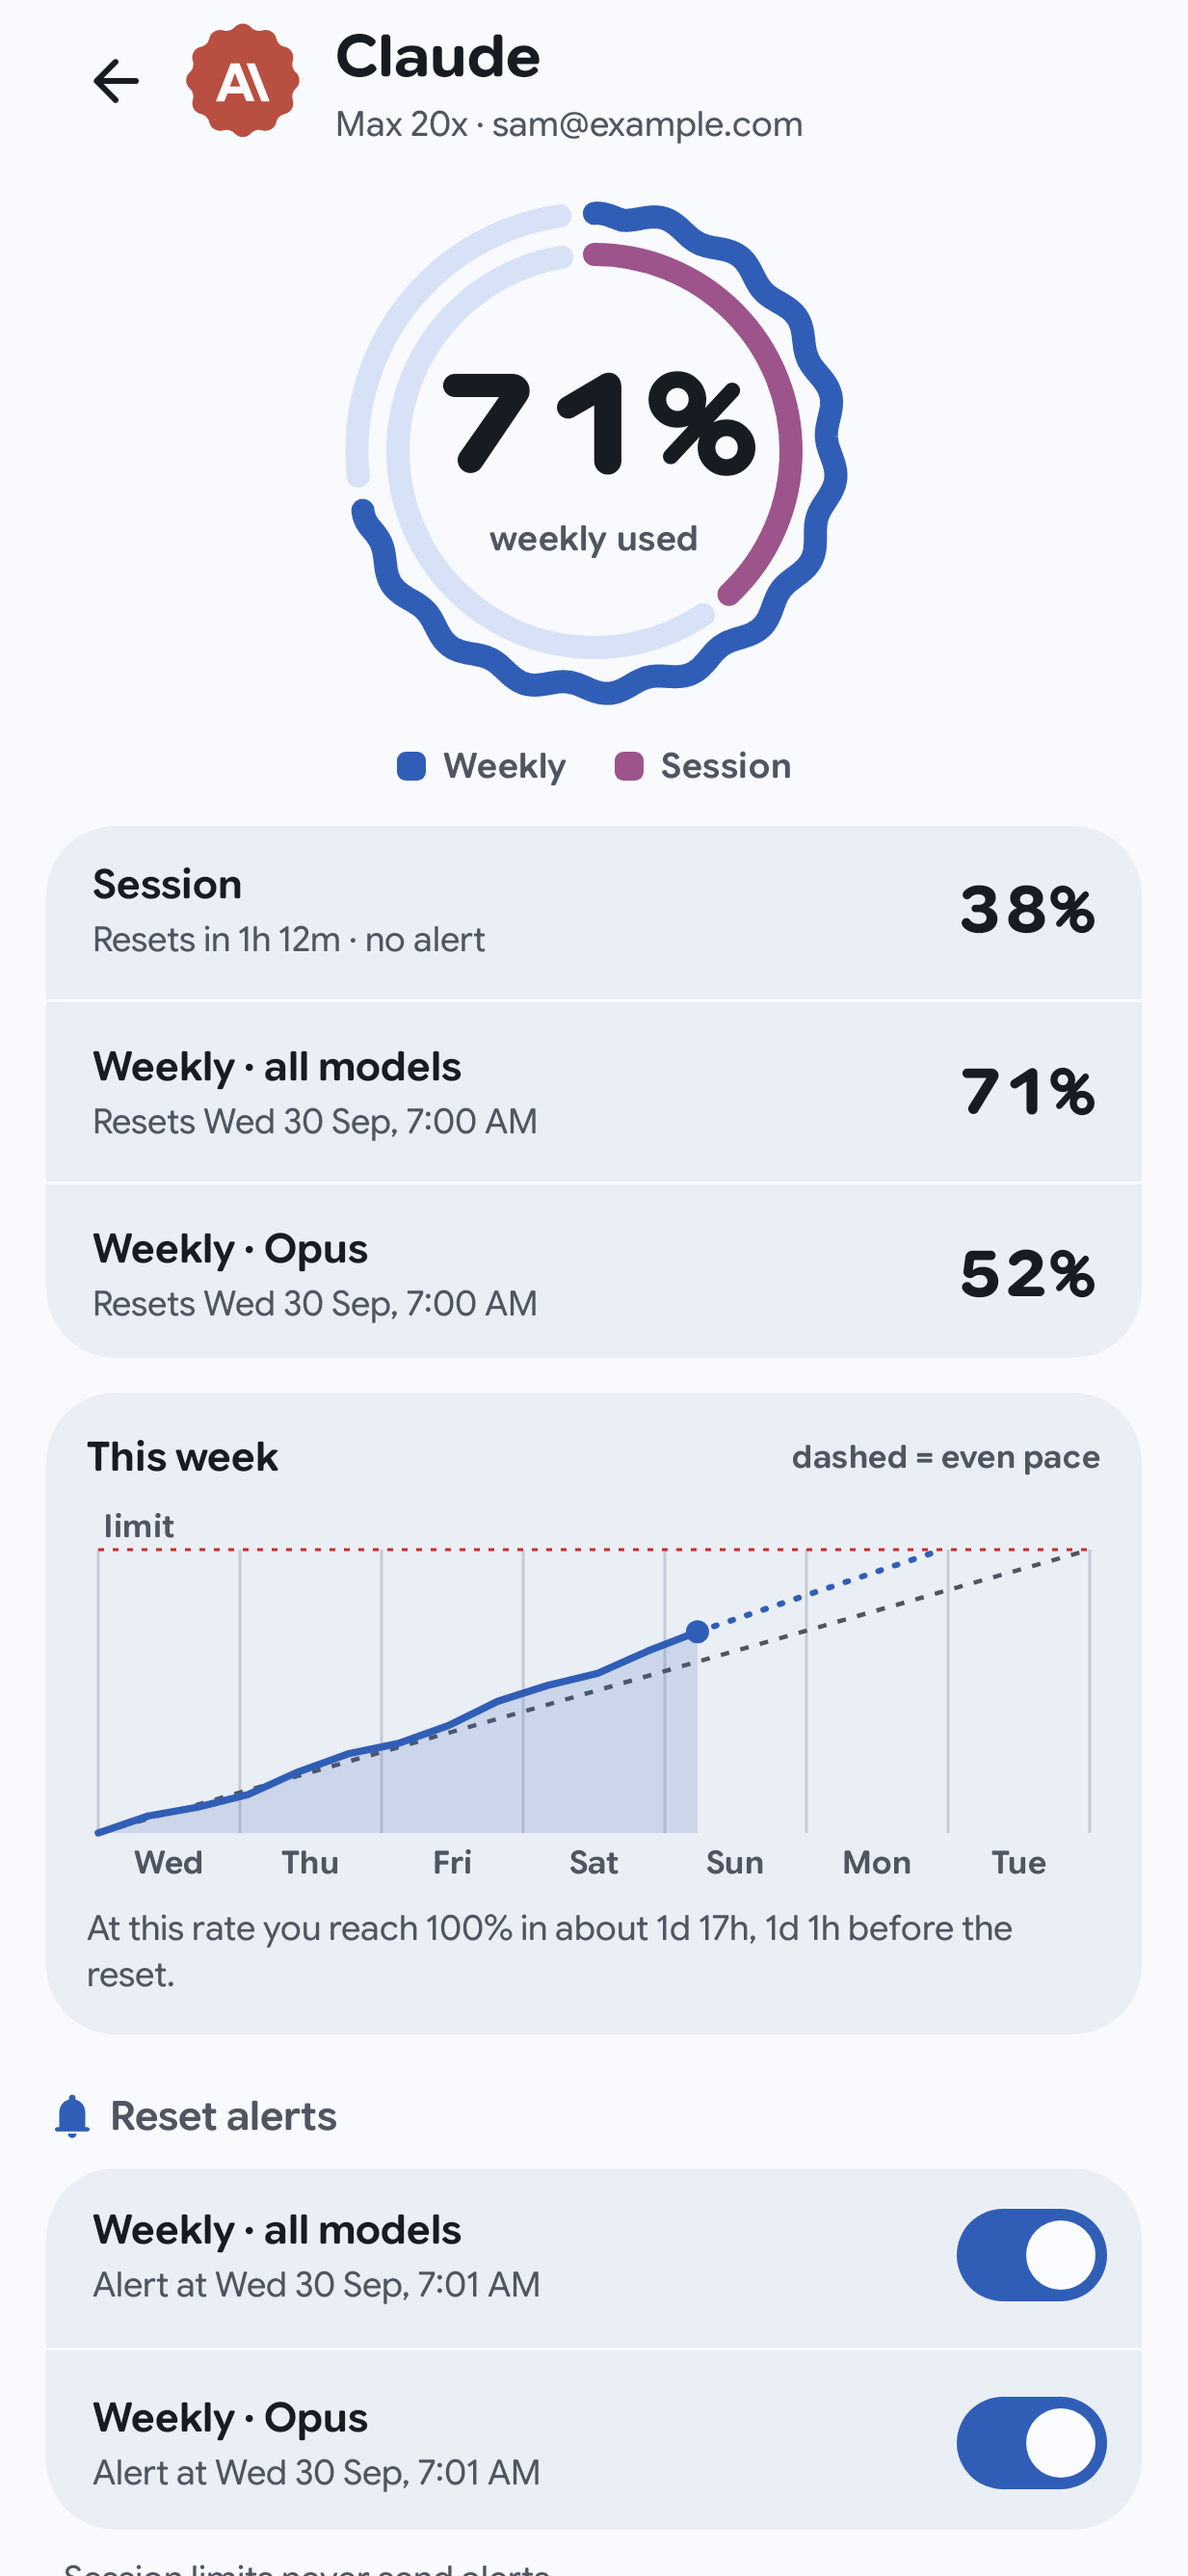
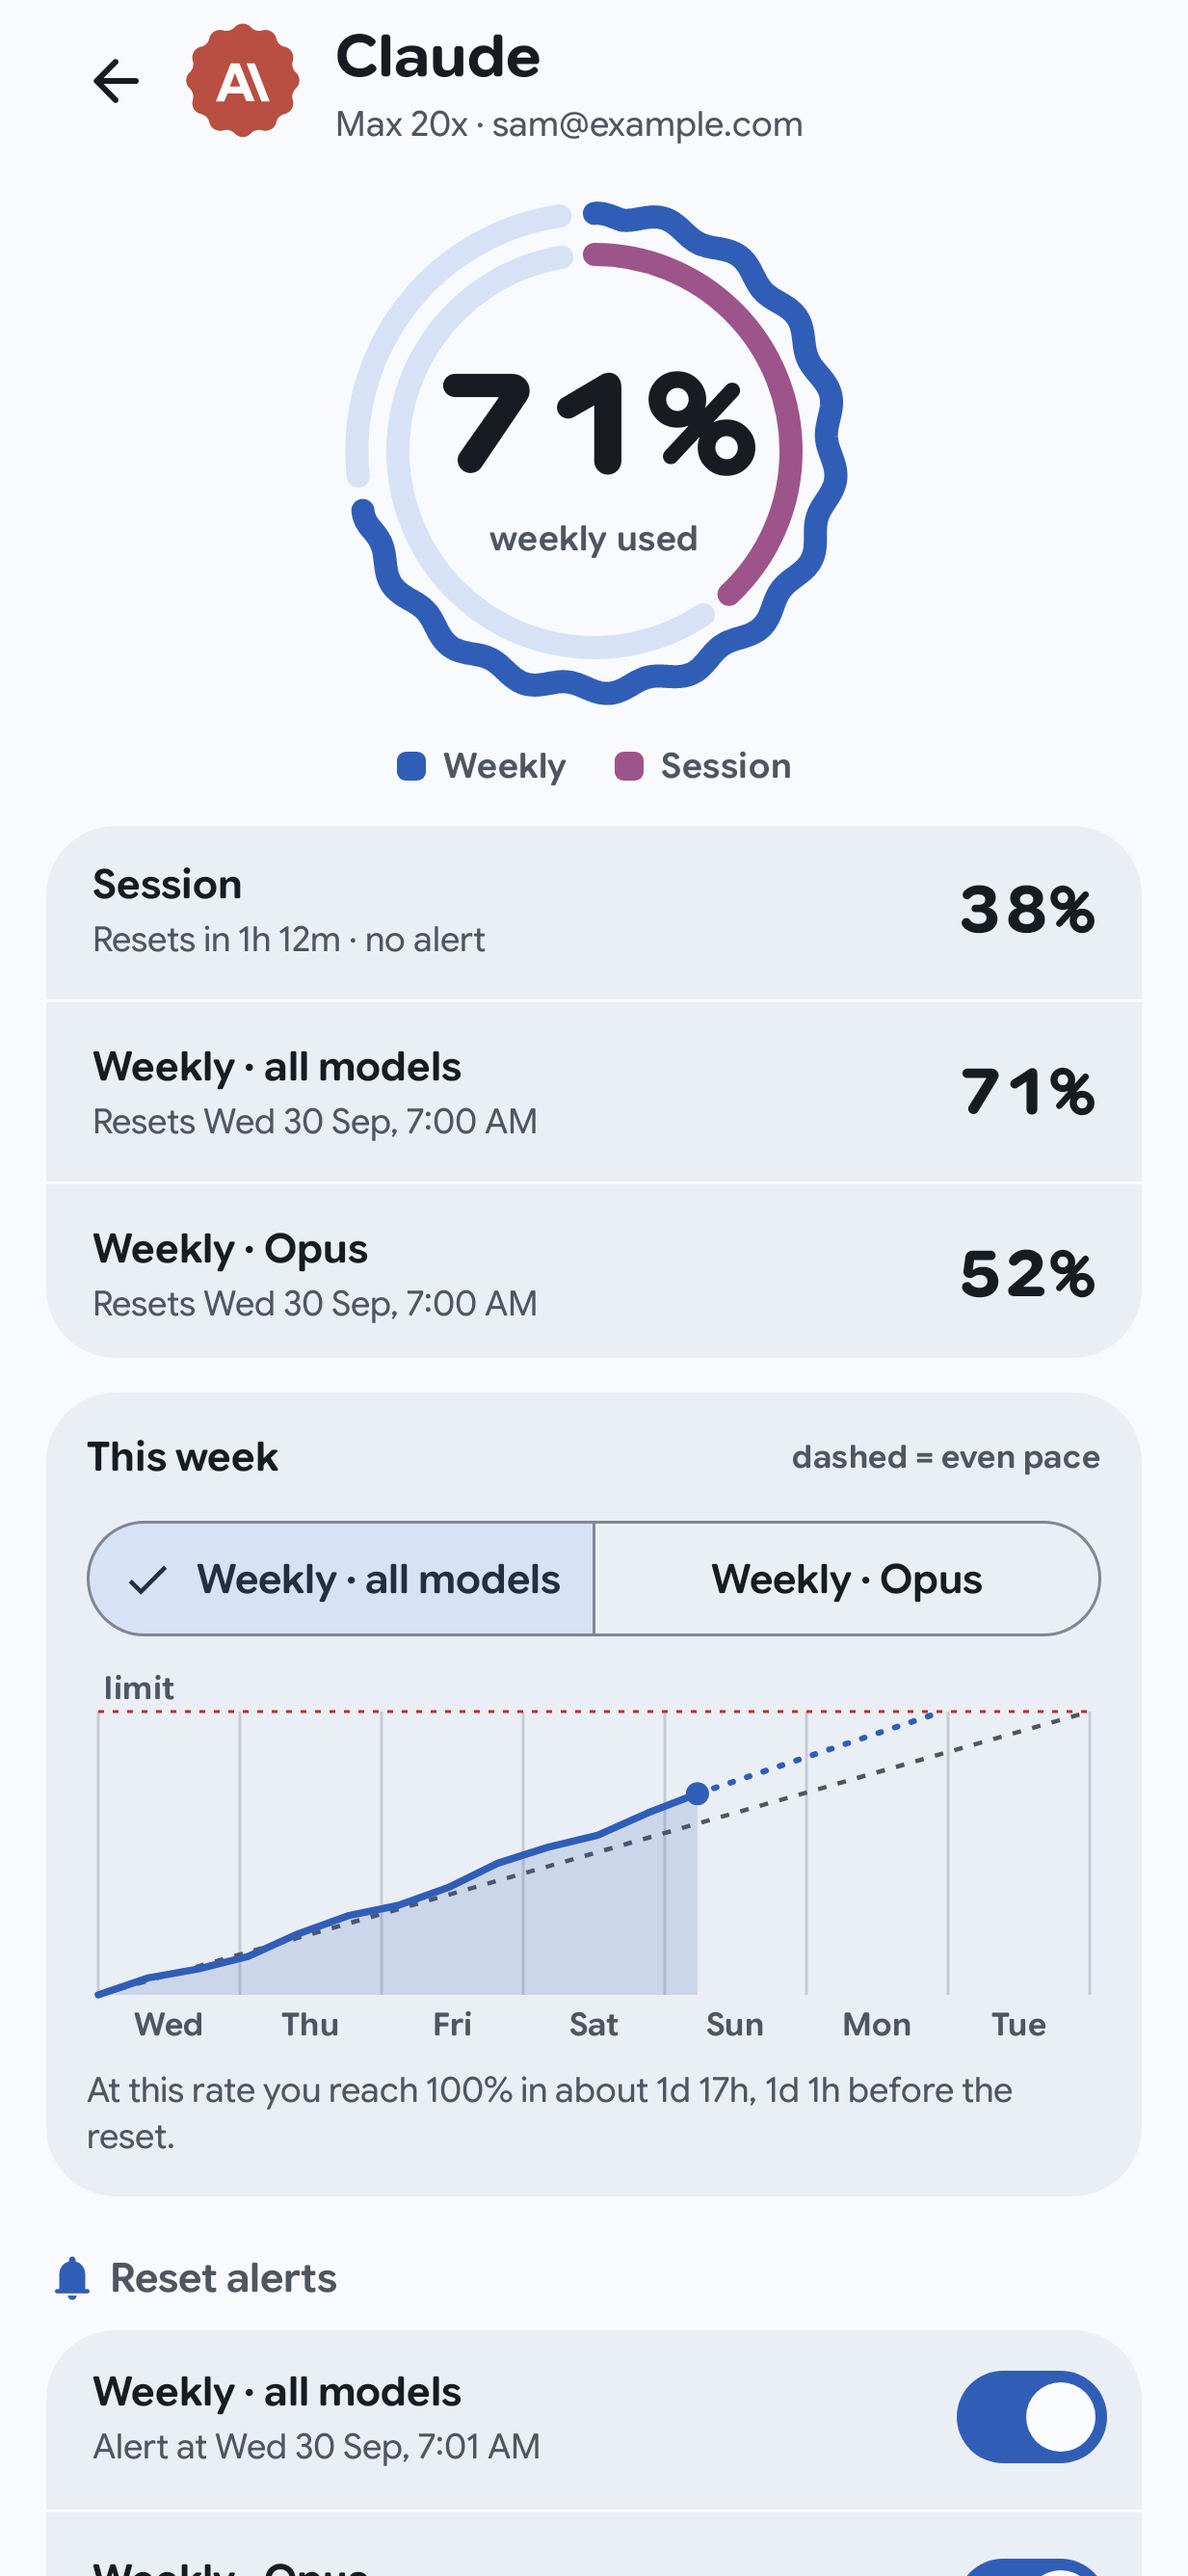
Let the pace chart switch between an account's long windows
Accounts with more than one weekly or monthly window, such as OpenCode Go
(weekly and monthly) or Claude (all models and per-model weekly limits),
get a segmented picker above the chart. It starts on the primary window
and remembers the pick while the same account stays selected.

diff --git a/app/src/main/kotlin/dev/sebastiano/headroom/ui/detail/DetailScreen.kt b/app/src/main/kotlin/dev/sebastiano/headroom/ui/detail/DetailScreen.kt
@@ -22,6 +22,9 @@ import androidx.compose.material3.HorizontalDivider
 import androidx.compose.material3.Icon
 import androidx.compose.material3.IconButton
 import androidx.compose.material3.MaterialTheme
+import androidx.compose.material3.SegmentedButton
+import androidx.compose.material3.SegmentedButtonDefaults
+import androidx.compose.material3.SingleChoiceSegmentedButtonRow
 import androidx.compose.material3.Surface
 import androidx.compose.material3.Switch
 import androidx.compose.material3.Text
@@ -36,6 +39,7 @@ import androidx.compose.ui.res.stringResource
 import androidx.compose.ui.semantics.contentDescription
 import androidx.compose.ui.semantics.heading
 import androidx.compose.ui.semantics.semantics
+import androidx.compose.ui.text.style.TextOverflow
 import androidx.compose.ui.unit.dp
 import dev.sebastiano.headroom.R
 import dev.sebastiano.headroom.designsystem.HeadroomIcons
@@ -67,6 +71,8 @@ const val DETAIL_TAG: String = "detail"
 
 fun alertSwitchTag(accountId: String, windowId: String): String = "alert-$accountId-$windowId"
 
+fun chartWindowTag(windowId: String): String = "chart-window-$windowId"
+
 /**
  * One account in depth: the hero ring (weekly outside, session inside), every window, the pace
  * chart drawn to scale, and the per-window reset alert switches.
@@ -79,6 +85,7 @@ fun DetailScreen(
     modifier: Modifier = Modifier,
     onBack: (() -> Unit)? = null,
     sharedElements: SharedElements? = null,
+    onChartWindowChange: (windowId: String) -> Unit = {},
 ) {
     val account = state.account
     val container =
@@ -117,7 +124,17 @@ fun DetailScreen(
                 )
             }
             WindowList(account, state.now, formatter, content)
-            state.chart?.let { ChartCard(it, state.now, formatter, content) }
+            state.chart?.let {
+                ChartCard(
+                    chart = it,
+                    now = state.now,
+                    formatter = formatter,
+                    windows = state.chartWindows,
+                    selectedWindowId = state.chartWindowId,
+                    onWindowChange = onChartWindowChange,
+                    modifier = content,
+                )
+            }
             AlertSection(account, formatter, onAlertChange, content)
         }
     }
@@ -293,11 +310,36 @@ private fun resetLine(window: WindowSummary, at: Instant, now: Instant, formatte
         else -> stringResource(R.string.detail_resets_at, formatter.long(at))
     }
 
+/** Picks which long window the chart draws, for accounts with more than one. */
+@Composable
+private fun ChartWindowPicker(
+    windows: List<WindowSummary>,
+    selectedWindowId: String?,
+    onWindowChange: (String) -> Unit,
+    modifier: Modifier = Modifier,
+) {
+    SingleChoiceSegmentedButtonRow(modifier = modifier.fillMaxWidth()) {
+        windows.forEachIndexed { index, window ->
+            SegmentedButton(
+                selected = window.id == selectedWindowId,
+                onClick = { onWindowChange(window.id) },
+                shape = SegmentedButtonDefaults.itemShape(index, windows.size),
+                modifier = Modifier.testTag(chartWindowTag(window.id)),
+            ) {
+                Text(window.label, maxLines = 1, overflow = TextOverflow.Ellipsis)
+            }
+        }
+    }
+}
+
 @Composable
 private fun ChartCard(
     chart: ChartSummary,
     now: Instant,
     formatter: ResetFormatter,
+    windows: List<WindowSummary>,
+    selectedWindowId: String?,
+    onWindowChange: (String) -> Unit,
     modifier: Modifier = Modifier,
 ) {
     Surface(
@@ -324,6 +366,10 @@ private fun ChartCard(
                     style = MaterialTheme.typography.labelSmall,
                     color = MaterialTheme.colorScheme.onSurfaceVariant,
                 )
+            }
+            if (windows.size > 1) {
+                Spacer(Modifier.height(8.dp))
+                ChartWindowPicker(windows, selectedWindowId, onWindowChange)
             }
             Spacer(Modifier.height(4.dp))
             val used = chart.usedPercent.roundToInt()

diff --git a/app/src/main/kotlin/dev/sebastiano/headroom/ui/home/HomeViewModel.kt b/app/src/main/kotlin/dev/sebastiano/headroom/ui/home/HomeViewModel.kt
@@ -8,7 +8,9 @@ import dev.sebastiano.headroom.appdata.ResetHistory
 import dev.sebastiano.headroom.model.AccountState
 import dev.sebastiano.headroom.model.AlertPreferences
 import dev.sebastiano.headroom.model.QuotaRepository
+import dev.sebastiano.headroom.model.QuotaWindow
 import dev.sebastiano.headroom.model.ResetPolicy
+import dev.sebastiano.headroom.model.WindowKind
 import java.time.Duration
 import java.time.Instant
 import kotlinx.coroutines.ExperimentalCoroutinesApi
@@ -115,27 +117,48 @@ class HomeViewModel(
             }
             .stateIn(viewModelScope, SharingStarted.WhileSubscribed(STOP_TIMEOUT), initialState())
 
+    /** The window the chart shows, as account id to window id, when the user picked one. */
+    private val chartWindow = MutableStateFlow<Pair<String, String>?>(null)
+
     /** The selected account's detail. Without a selection it shows the first account. */
     val detail: StateFlow<DetailUiState?> =
-        combine(state, selectedId) { home, id ->
+        combine(state, selectedId, chartWindow) { home, id, picked ->
                 val account =
                     home.accounts.firstOrNull { it.id == id } ?: home.accounts.firstOrNull()
-                account?.let { home.now to it }
+                account?.let {
+                    Triple(home.now, it, picked?.takeIf { p -> p.first == it.id }?.second)
+                }
             }
             .distinctUntilChanged()
             .flatMapLatest { selection ->
                 if (selection == null) return@flatMapLatest flowOf(null)
-                val (now, account) = selection
-                val window = repository.accounts.value.primaryWindowOf(account.id)
+                val (now, account, picked) = selection
+                val state = repository.accounts.value.firstOrNull { it.account.id == account.id }
+                val options = state?.snapshot?.windows.orEmpty().filter { it.isChartable }
+                val window = options.firstOrNull { it.id == picked } ?: state?.primaryWindow
+                val chartWindows =
+                    account.windows.filter { summary -> options.any { it.id == summary.id } }
                 if (window == null) {
                     flowOf(DetailUiState(now, account, chart = null))
                 } else {
                     repository.history(account.id, window.id).map { points ->
-                        DetailUiState(now, account, chartSummary(window, points, now))
+                        DetailUiState(
+                            now = now,
+                            account = account,
+                            chart = chartSummary(window, points, now),
+                            chartWindows = chartWindows,
+                            chartWindowId = window.id,
+                        )
                     }
                 }
             }
             .stateIn(viewModelScope, SharingStarted.WhileSubscribed(STOP_TIMEOUT), null)
+
+    /** Shows [windowId] of the selected account in the chart. */
+    fun selectChartWindow(windowId: String) {
+        val accountId = detail.value?.account?.id ?: return
+        chartWindow.value = accountId to windowId
+    }
 
     fun select(accountId: String) {
         savedStateHandle[SELECTED_ACCOUNT_KEY] = accountId
@@ -168,10 +191,13 @@ class HomeViewModel(
             accountsLoaded = accountsLoaded.value,
         )
 
-    private fun List<AccountState>.primaryWindowOf(accountId: String) = firstOrNull {
-        it.account.id == accountId
-    }
-        ?.primaryWindow
+    /** Weekly and monthly windows with a known start can be drawn against even pace. */
+    private val QuotaWindow.isChartable: Boolean
+        get() =
+            (kind == WindowKind.Weekly || kind == WindowKind.Monthly) &&
+                resetsAt != null &&
+                length != null &&
+                !isUnlimited
 
     private data class Environment(
         val isDemo: Boolean,

diff --git a/app/src/main/kotlin/dev/sebastiano/headroom/ui/HomeScaffold.kt b/app/src/main/kotlin/dev/sebastiano/headroom/ui/HomeScaffold.kt
@@ -89,6 +89,7 @@ internal fun HomeScaffold(
     onRefresh: () -> Unit,
     onSelectAccount: (String) -> Unit,
     onAlertChange: (String, String, Boolean) -> Unit,
+    onChartWindowChange: (String) -> Unit,
     onOpenAccounts: () -> Unit,
     onAddWidget: (WidgetStyle) -> Unit,
     modifier: Modifier = Modifier,
@@ -161,6 +162,7 @@ internal fun HomeScaffold(
                             onRefresh = onRefresh,
                             onSelectAccount = onSelectAccount,
                             onAlertChange = onAlertChange,
+                            onChartWindowChange = onChartWindowChange,
                             onAllResets = { selectTab(HomeTab.Resets) },
                             onOpenAccounts = onOpenAccounts,
                             bottomPadding = bottomPadding,
@@ -200,6 +202,7 @@ private fun OverviewPanes(
     onRefresh: () -> Unit,
     onSelectAccount: (String) -> Unit,
     onAlertChange: (String, String, Boolean) -> Unit,
+    onChartWindowChange: (String) -> Unit,
     onAllResets: () -> Unit,
     onOpenAccounts: () -> Unit,
     bottomPadding: androidx.compose.ui.unit.Dp,
@@ -258,7 +261,7 @@ private fun OverviewPanes(
                 AnimatedPane {
                     val current = detail ?: return@AnimatedPane
                     if (twoPanes) {
-                        DetailPane(current, formatter, onAlertChange)
+                        DetailPane(current, formatter, onAlertChange, onChartWindowChange)
                     } else {
                         val shared =
                             remember(this, containerSpec, valueSpec) {
@@ -274,6 +277,7 @@ private fun OverviewPanes(
                             state = current,
                             formatter = formatter,
                             onAlertChange = onAlertChange,
+                            onChartWindowChange = onChartWindowChange,
                             onBack = { scope.launch { navigator.navigateBack() } },
                             sharedElements = shared,
                             modifier = Modifier.background(MaterialTheme.colorScheme.surface),
@@ -332,6 +336,7 @@ private fun DetailPane(
     detail: DetailUiState,
     formatter: ResetFormatter,
     onAlertChange: (String, String, Boolean) -> Unit,
+    onChartWindowChange: (String) -> Unit,
 ) {
     val effects = MaterialTheme.motionScheme.defaultEffectsSpec<Float>()
     val fast = MaterialTheme.motionScheme.fastEffectsSpec<Float>()
@@ -350,7 +355,12 @@ private fun DetailPane(
                 .background(MaterialTheme.colorScheme.surfaceContainerLow),
         label = "detail pane",
     ) { shown ->
-        DetailScreen(state = shown, formatter = formatter, onAlertChange = onAlertChange)
+        DetailScreen(
+            state = shown,
+            formatter = formatter,
+            onAlertChange = onAlertChange,
+            onChartWindowChange = onChartWindowChange,
+        )
     }
 }
 

diff --git a/app/src/test/kotlin/dev/sebastiano/headroom/ui/DetailTest.kt b/app/src/test/kotlin/dev/sebastiano/headroom/ui/DetailTest.kt
@@ -3,8 +3,10 @@ package dev.sebastiano.headroom.ui
 import androidx.activity.ComponentActivity
 import androidx.compose.ui.semantics.ProgressBarRangeInfo
 import androidx.compose.ui.test.assertIsDisplayed
+import androidx.compose.ui.test.assertIsNotSelected
 import androidx.compose.ui.test.assertIsOff
 import androidx.compose.ui.test.assertIsOn
+import androidx.compose.ui.test.assertIsSelected
 import androidx.compose.ui.test.assertRangeInfoEquals
 import androidx.compose.ui.test.hasTestTag
 import androidx.compose.ui.test.junit4.v2.createAndroidComposeRule
@@ -18,6 +20,7 @@ import dev.sebastiano.headroom.designsystem.HeadroomTheme
 import dev.sebastiano.headroom.designsystem.IndicatorStyle
 import dev.sebastiano.headroom.ui.detail.DETAIL_TAG
 import dev.sebastiano.headroom.ui.detail.alertSwitchTag
+import dev.sebastiano.headroom.ui.detail.chartWindowTag
 import dev.sebastiano.headroom.ui.overview.accountCardTag
 import org.junit.Rule
 import org.junit.Test
@@ -56,6 +59,15 @@ class DetailTest {
         rule
             .onNodeWithText("At this rate you reach 100% in about 1d 17h, 1d 1h before the reset.")
             .assertExists()
+    }
+
+    @Test
+    fun `the chart can show another long window`() {
+        openClaude()
+        val opus = rule.onNodeWithTag(chartWindowTag("seven_day_opus"))
+        opus.performScrollTo().assertIsNotSelected().performClick()
+        rule.onNodeWithTag(chartWindowTag("seven_day_opus")).assertIsSelected()
+        rule.onNodeWithTag(chartWindowTag("seven_day")).assertIsNotSelected()
     }
 
     @Test

diff --git a/app/src/test/kotlin/dev/sebastiano/headroom/ui/HomeViewModelTest.kt b/app/src/test/kotlin/dev/sebastiano/headroom/ui/HomeViewModelTest.kt
@@ -157,6 +157,30 @@ class HomeViewModelTest {
         }
 
     @Test
+    fun `the chart switches between the account's long windows`() =
+        runTest(main.dispatcher) {
+            observe()
+            val claude = assertNotNull(viewModel.detail.value)
+            assertEquals(listOf("seven_day", "seven_day_opus"), claude.chartWindows.map { it.id })
+            assertEquals("seven_day", claude.chartWindowId)
+
+            viewModel.selectChartWindow("seven_day_opus")
+            runCurrent()
+            val opus = assertNotNull(viewModel.detail.value)
+            assertEquals("seven_day_opus", opus.chartWindowId)
+            assertEquals(
+                claude.account.windows.first { it.id == "seven_day_opus" }.usedPercent,
+                opus.chart?.usedPercent,
+            )
+
+            // Another account starts from its own primary window.
+            viewModel.select("demo-codex")
+            runCurrent()
+            val codex = assertNotNull(viewModel.detail.value)
+            assertEquals(codex.account.primary?.id, codex.chartWindowId)
+        }
+
+    @Test
     fun `the usage at past resets comes with each account`() =
         runTest(main.dispatcher) {
             observe()

diff --git a/app/src/main/kotlin/dev/sebastiano/headroom/ui/home/HomeUiState.kt b/app/src/main/kotlin/dev/sebastiano/headroom/ui/home/HomeUiState.kt
@@ -74,7 +74,15 @@ data class NextResetSummary(
 
 /** The detail screen: one account plus the chart of its primary window. */
 @Immutable
-data class DetailUiState(val now: Instant, val account: AccountSummary, val chart: ChartSummary?)
+data class DetailUiState(
+    val now: Instant,
+    val account: AccountSummary,
+    val chart: ChartSummary?,
+    /** The windows the chart can show, when there is more than one to pick from. */
+    val chartWindows: List<WindowSummary> = emptyList(),
+    /** The window the chart shows. */
+    val chartWindowId: String? = null,
+)
 
 @Immutable
 data class ChartSummary(

diff --git a/app/src/main/kotlin/dev/sebastiano/headroom/ui/HeadroomApp.kt b/app/src/main/kotlin/dev/sebastiano/headroom/ui/HeadroomApp.kt
@@ -139,6 +139,7 @@ fun HeadroomApp(
                     onRefresh = homeViewModel::refresh,
                     onSelectAccount = homeViewModel::select,
                     onAlertChange = homeViewModel::setAlert,
+                    onChartWindowChange = homeViewModel::selectChartWindow,
                     onOpenAccounts = { accountsOpen = true },
                     playEntrance = !entrancePlayed,
                     onEntranceStart = { entrancePlayed = true },
